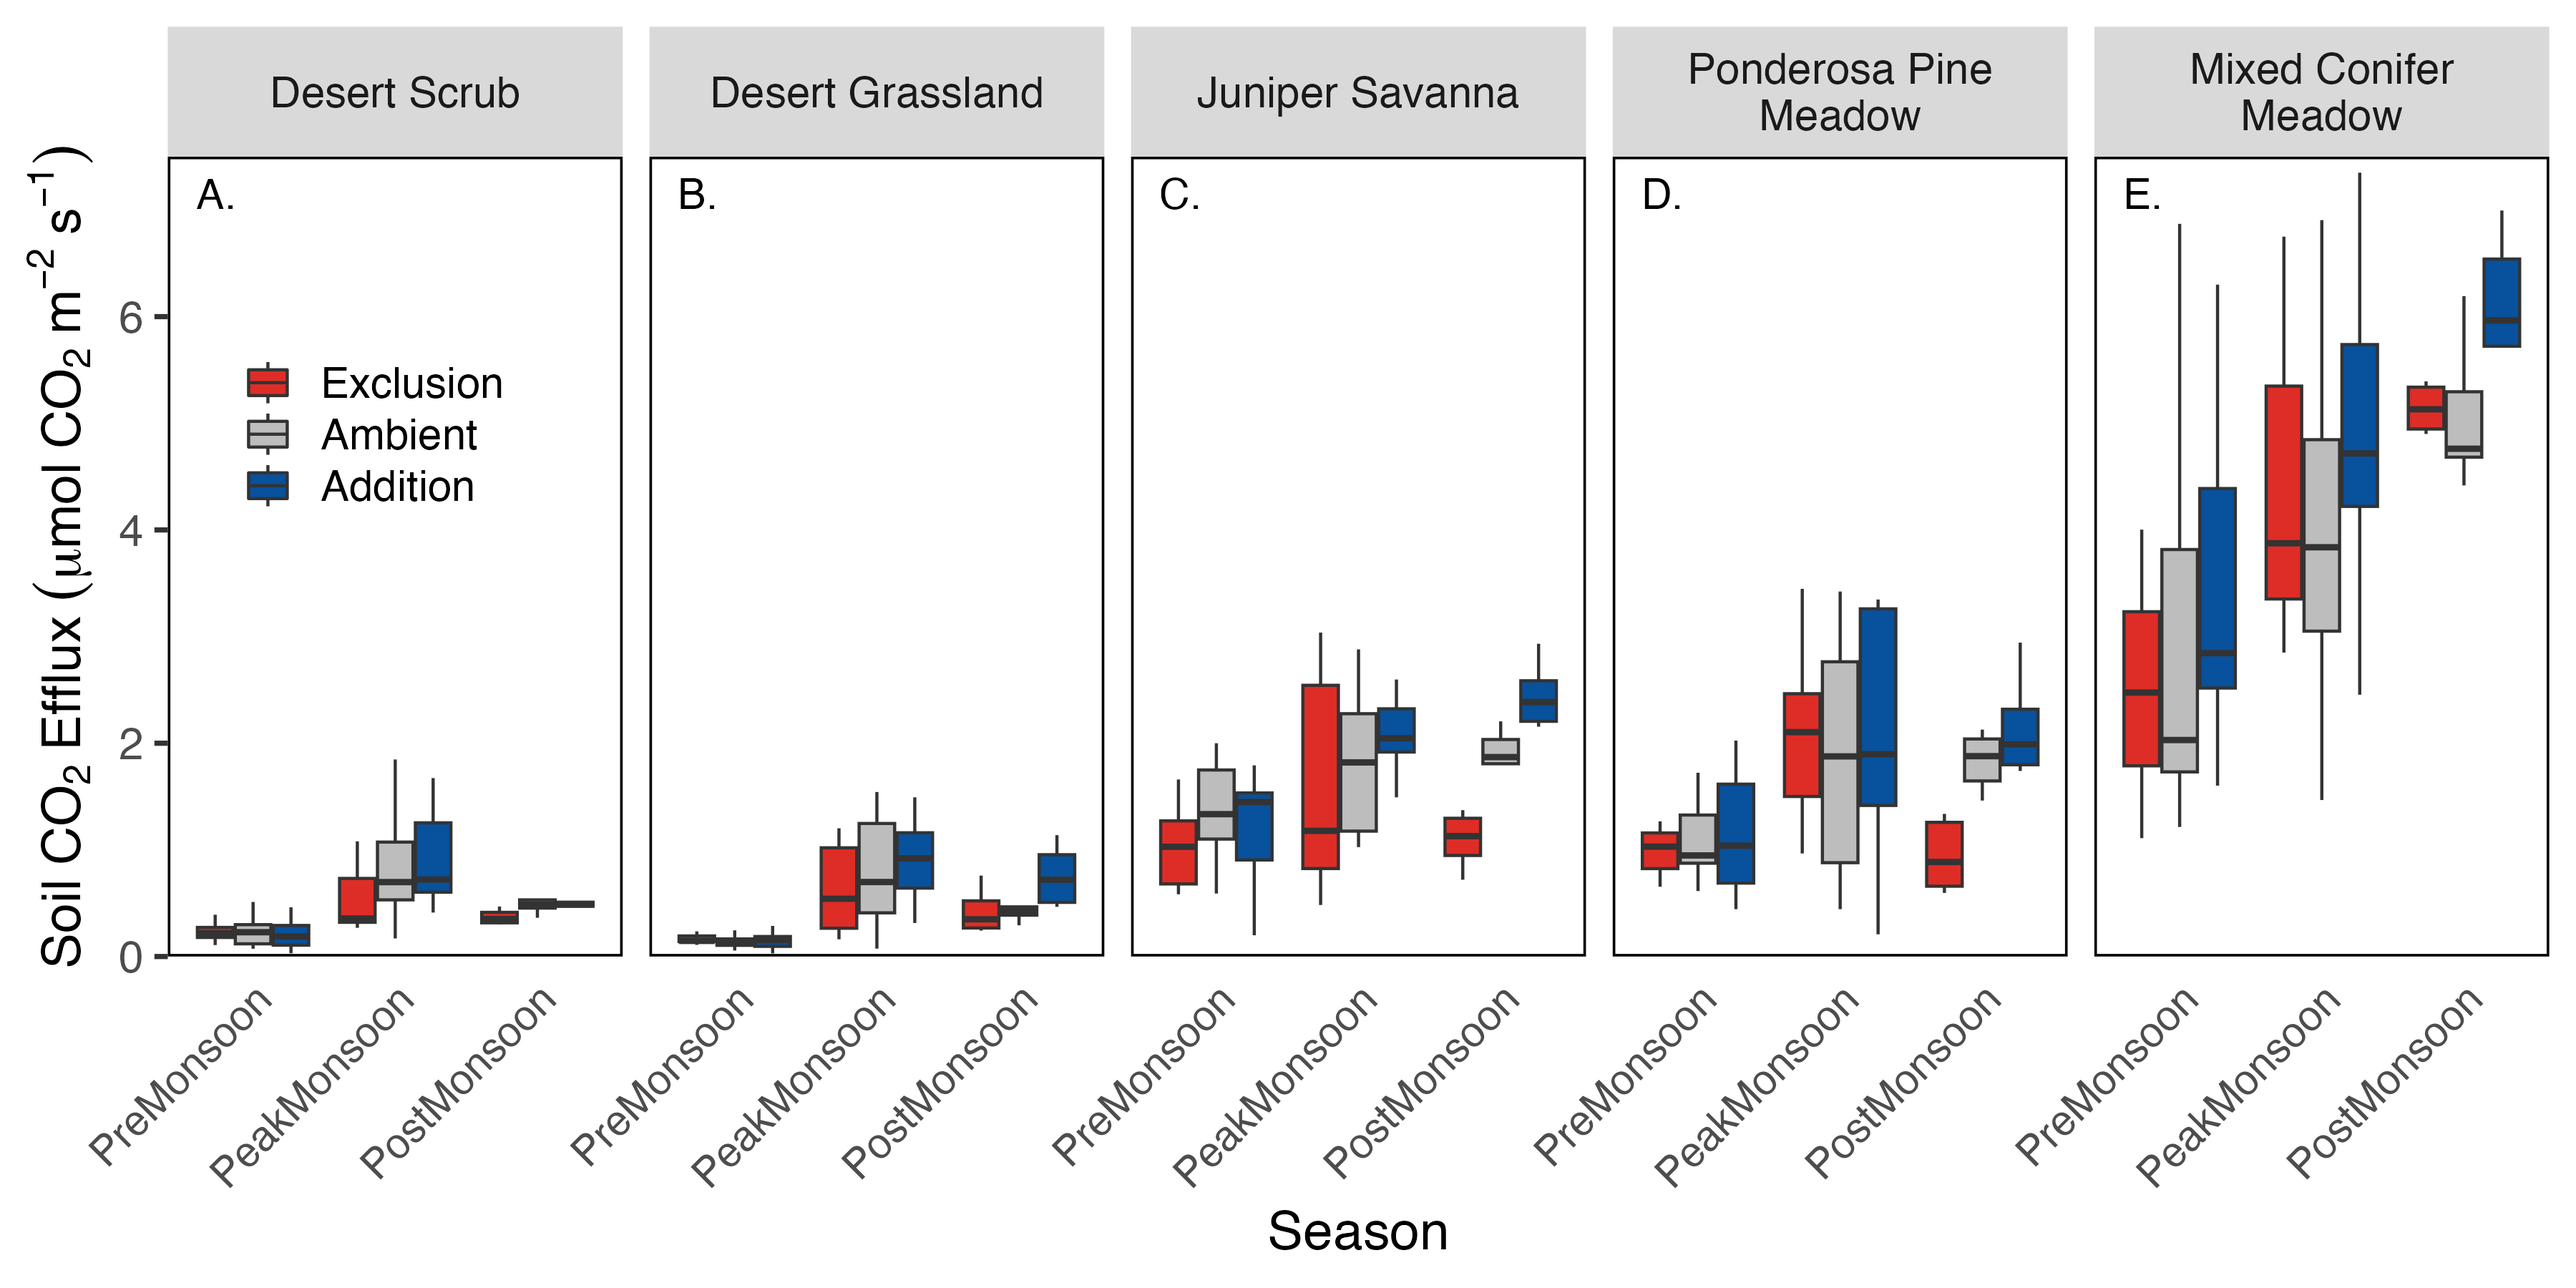
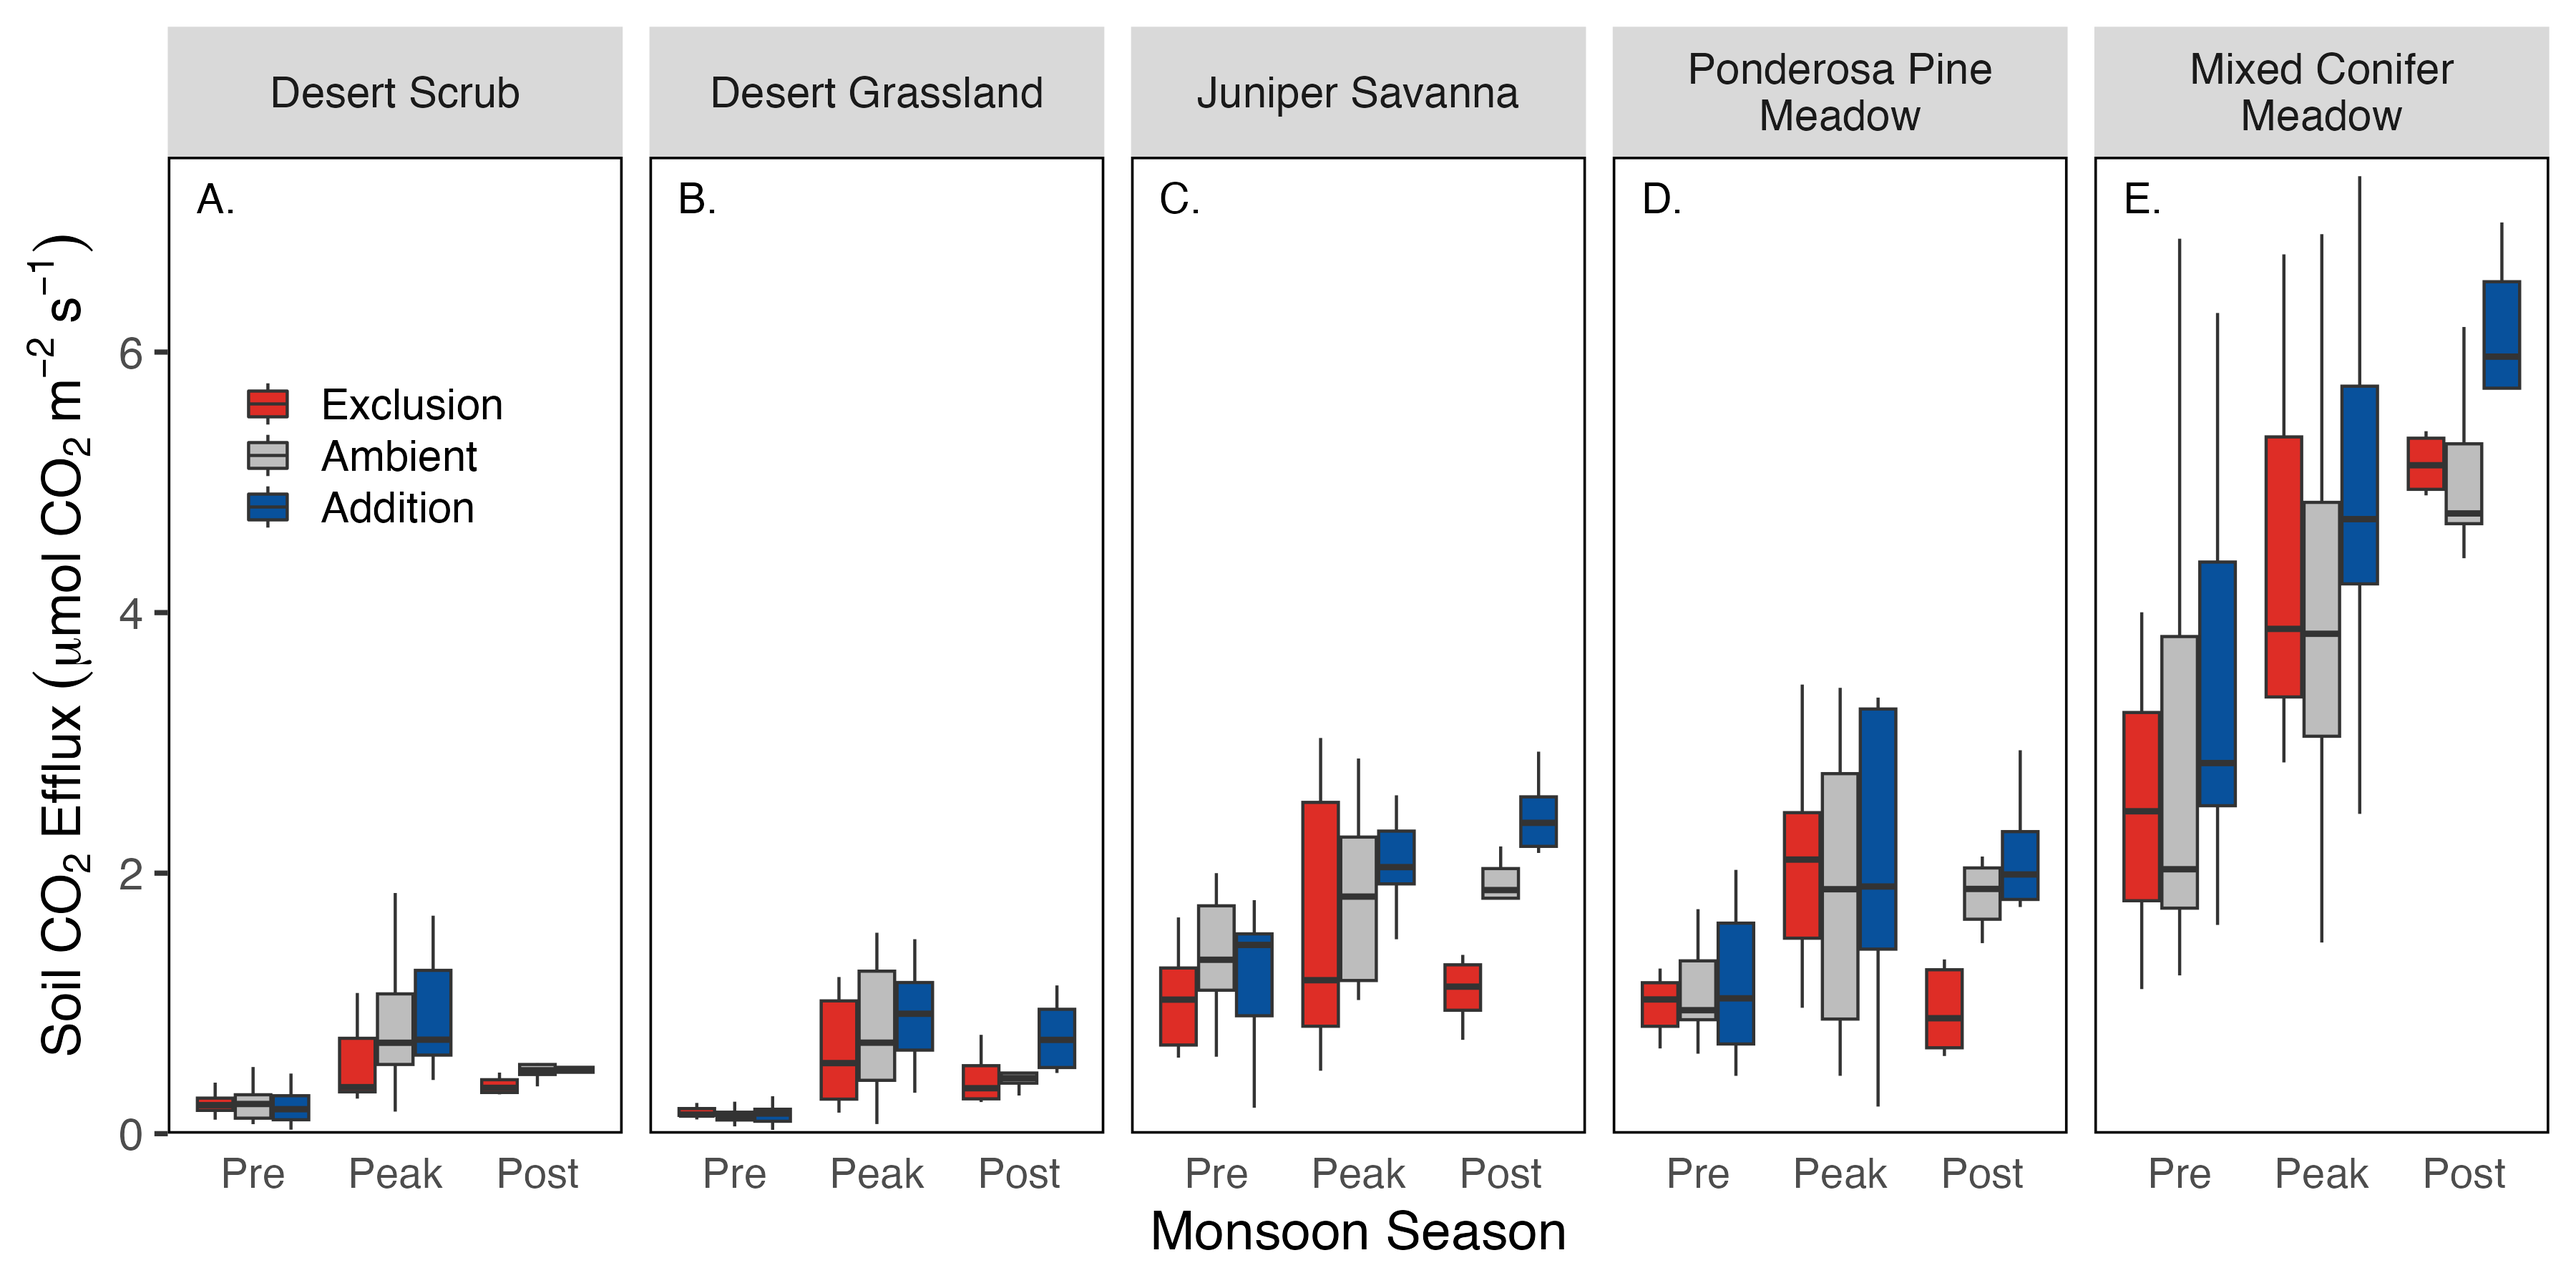
update exsitu resp analyses and figs

diff --git a/src/ReadMe.md b/src/ReadMe.md
@@ -10,11 +10,11 @@ EnzymeAnalysis.R
 
 ExSituResp_HT.qmd:
 
-ExSituResp.R:
 
 GRaMPSCN2019.R:
 
 InSituResp.qmd:
+This is a compilation, cleaning, and analysis of field-collected soil respiration data. Code was written by Heather Throop, streamlining and updating the original analyses that Brittney did for her MS. Data are ingested and collapsed to means for plots (separated by microsite or means of microsites). Flux patterns are plotted by season. Statistical analysis and plots of soil moisture, temperature, and site impacts on respiration. 
 
 MicrobialBiomass.R
 
